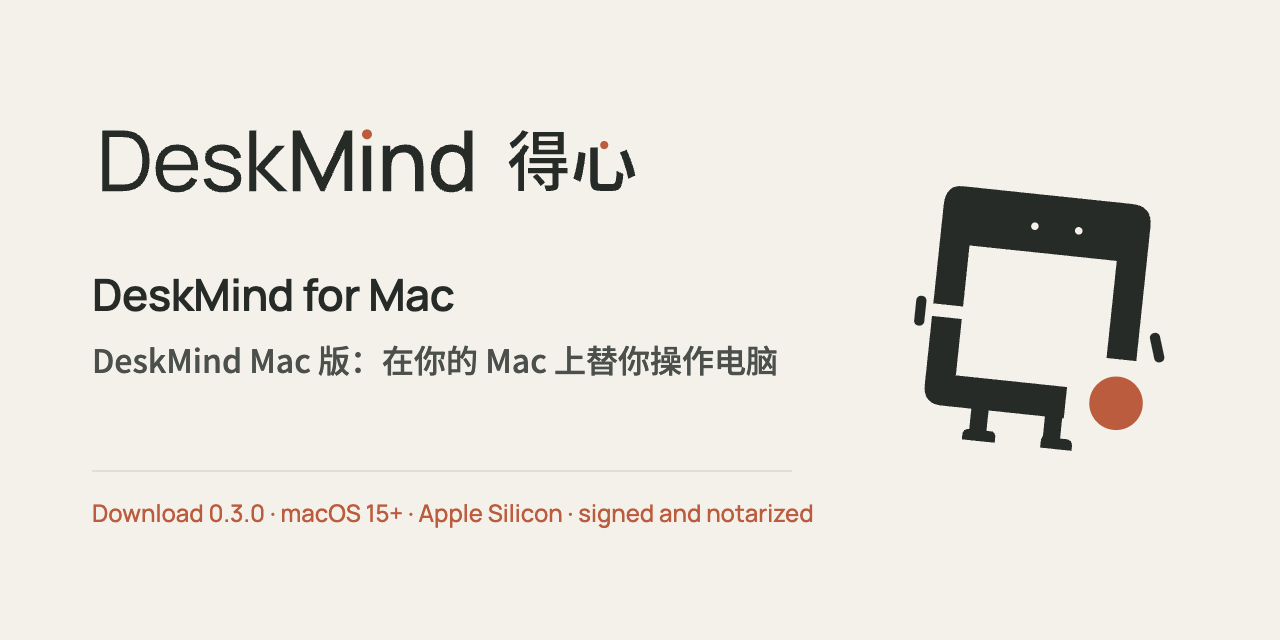
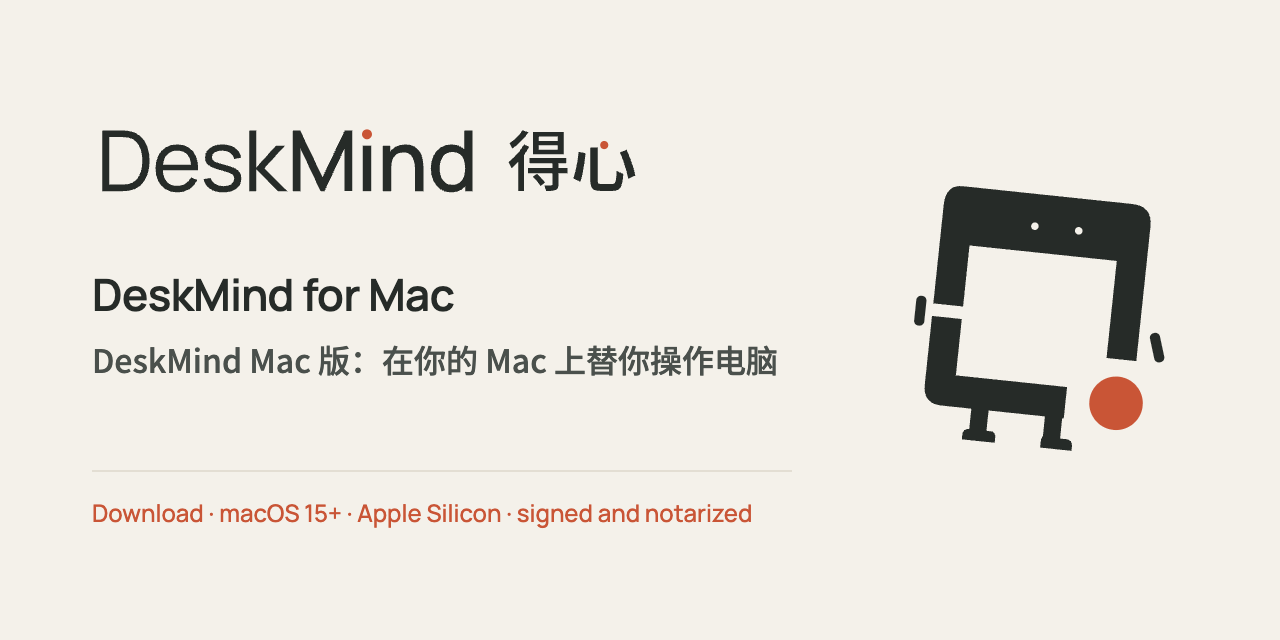
brand: app social preview without a version number
Claude-Session: https://claude.ai/code/session_01P2fwt23YBwc8pGcUJCrYtD

Changed region(s): [[0.1562, 0.7812, 0.6562, 0.8438]]

diff --git a/brand/social/github/app.html b/brand/social/github/app.html
@@ -9,4 +9,4 @@
 .sub{position:absolute;left:92px;top:496px;font-size:24px;font-weight:500;color:#C95536}
 .mascot{position:absolute;right:96px;top:150px;height:340px}</style></head>
 <body><div class="wrap"><img class="logo" src="../../logo/bilingual-horizontal-light.svg"><div class="en">DeskMind for Mac</div><div class="zh">DeskMind Mac 版：在你的 Mac 上替你操作电脑</div>
-<div class="rule"></div><div class="sub">Download 0.3.0 · macOS 15+ · Apple Silicon · signed and notarized</div><img class="mascot" src="../../xiaofang/working.svg"></div></body></html>
+<div class="rule"></div><div class="sub">Download · macOS 15+ · Apple Silicon · signed and notarized</div><img class="mascot" src="../../xiaofang/working.svg"></div></body></html>
